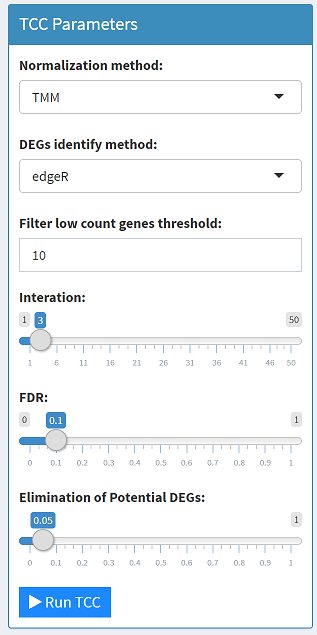
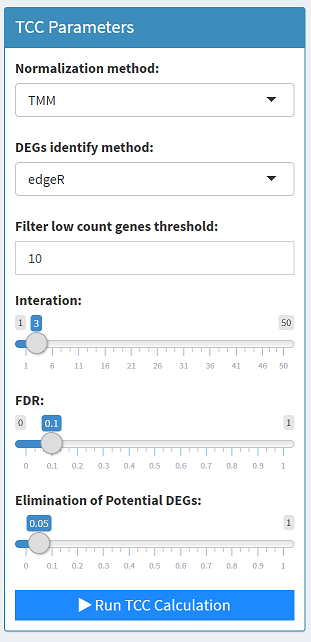
Update docs.

Changed region(s): [[0.0, 0.0, 1.0, 1.0]]

diff --git a/TCC-GUI/document/English_Welcome.md b/TCC-GUI/document/English_Welcome.md
@@ -26,17 +26,21 @@ Please check other tab in `Guidance` for details.
 
 # 📧Contact
 
-If you have any question about the application, comment and advise, please contact [kadota(at)bi.a.u-tokyo.ac.jp](mailto:kadota@bi.a.u-tokyo.ac.jp) or [suwei(at)bi.a.u-tokyo.ac.jp](mailto:suwei@bi.a.u-tokyo.ac.jp). 
+---
 
-Also, you can access [Github](https://github.com/swsoyee/TCC-GUI/issues) and open a new issue for bug report or function requirement (you can write in English, Chinese or Japanese as you like).  
+If you have any question about the application, comment and advise, please contact 📧[kadota(at)bi.a.u-tokyo.ac.jp](mailto:kadota@bi.a.u-tokyo.ac.jp) or 📧[suwei(at)bi.a.u-tokyo.ac.jp](mailto:suwei@bi.a.u-tokyo.ac.jp). 
+
+Also, you can access 🔗[Github](https://github.com/swsoyee/TCC-GUI/issues) and open a new issue for bug report or function requirement (you can write in English, Chinese or Japanese as you like).  
 
 
 
 # 📚References
 
-[1] Sun J, Nishiyama T, Shimizu K, et al. **TCC**: an R package for comparing tag count data with robust normalization strategies[J]. BMC bioinformatics, 2013, 14(1): 219.  
-[2] Robinson M D, McCarthy D J, Smyth G K. **edgeR**: a Bioconductor package for differential expression analysis of digital gene expression data[J]. Bioinformatics, 2010, 26(1): 139-140.  
-[3] Anders S, Huber W. Differential expression analysis for sequence count data[J]. Genome biology, 2010, 11(10): R106.   
-[4] Love M I, Huber W, Anders S. Moderated estimation of fold change and dispersion for RNA-seq data with **DESeq2**[J]. Genome biology, 2014, 15(12): 550.  
-[5] Hardcastle T J, Kelly K A. **baySeq** : empirical Bayesian methods for identifying differential expression in sequence count data[J]. BMC bioinformatics, 2010, 11(1): 422.  
+---
+
+[1] Sun J, Nishiyama T, Shimizu K, et al. **TCC**: an R package for comparing tag count data with robust normalization strategies. BMC bioinformatics, 2013, 14(1): 219.  
+[2] Robinson M D, McCarthy D J, Smyth G K. **edgeR**: a Bioconductor package for differential expression analysis of digital gene expression data. Bioinformatics, 2010, 26(1): 139-140.  
+[3] Anders S, Huber W. Differential expression analysis for sequence count data. Genome biology, 2010, 11(10): R106.   
+[4] Love M I, Huber W, Anders S. Moderated estimation of fold change and dispersion for RNA-seq data with **DESeq2**. Genome biology, 2014, 15(12): 550.  
+[5] Hardcastle T J, Kelly K A. **baySeq** : empirical Bayesian methods for identifying differential expression in sequence count data. BMC bioinformatics, 2010, 11(1): 422.  
 

diff --git a/TCC-GUI/document/English_MA_plot.md b/TCC-GUI/document/English_MA_plot.md
@@ -1,14 +1,19 @@
-# What's MA Plot?
-An MA plot is an application of a Bland–Altman plot for visual representation of genomic data. The plot visualizes the differences between measurements taken in two samples, by transforming the data onto M (log ratio) and A (mean average) scales, then plotting these values. Though originally applied in the context of two channel DNA microarray gene expression data, MA plots are also used to visualise high-throughput sequencing analysis (quote from [wikipedia](https://en.wikipedia.org/wiki/MA_plot)).
+# 🤔What's MA plot?
 
 ---
 
-1. Change parameters or just leave it as default, click **[Generate MA-Plot]** button, and the MA plot will show up in the middle of the page.  
+An MA plot is an application of a Bland–Altman plot for visual representation of genomic data. The plot visualizes the differences between measurements taken in two samples, by transforming the data onto `M (log ratio)` and `A (mean average)` scales, then plotting these values. Though originally applied in the context of two channel DNA microarray gene expression data, MA plots are also used to visualize high-throughput sequencing analysis (quote from 🔗[wikipedia](https://en.wikipedia.org/wiki/MA_plot)).
+
+---
+
+# Steps for plotting
+---
+1. Change parameters or just leave it as default, click `[Generate MA-Plot]` button, and the MA plot will show up in the middle of the page.  
   ![MA plot parameters](../www/maPlotPara.png)
 2. If you want to check the infomation of specific point (transcript or gene), hover your cursor on the point, and the additional information will be print out (on the right side of the page, a expression level plot will also be provided).  
   ![MA Plot](../www/maplot1.png)
-3. If you want to mark some genes on the plot, please click the specific rows of the gene in  **Result Table** panel, and click **[Generate MA-Plot]** button again to refresh the plot.   
+3. If you want to mark some genes on the plot, please click the specific rows of the gene in  `Result Table` panel, and click `[Generate MA-Plot]` button again to refresh the plot.   
   ![MA Plot](../www/maplot2.png)
-4. On the left of the page, you will see lots of different FDR cut off and the count of DEGs in  **FDR vs DEGs** panel.  
+4. On the left of the page, you will see lots of different FDR cut off and the count of DEGs in  `FDR vs DEGs` panel.  
   ![FDR vs DEGs](../www/fdrDegs.png)  
-5. On the right of the page, R code of MA Plot is also provided.   
+5. On the right of the page, R code of MA plot is also provided.   

diff --git a/TCC-GUI/document/English_Computation.md b/TCC-GUI/document/English_Computation.md
@@ -1,9 +1,12 @@
-1. Click **[Calculation]** tab in the sider bar on the left of this page.   
+# Steps for calculation
+---
+
+1. Click `[Calculation]` tab in the side bar on the left of this page.   
   ![calculation tab](../www/calculationTab.png)  
-2. You can change all the parameters of TCC calculation or just leave it as default. Click **[Run]** button and wait for calculation finished. Depends on your size of dataset, method you have chosen and the interation number, it will take several seconds to 2 minutes for calculation.  
+2. You can change all the parameters of TCC calculation or just leave it as default. Click `[Run TCC Calculation]` button and wait for calculation finished. Depends on your size of dataset, method you have chosen and the iteration number, it will take several seconds to 2 minutes for calculation (`WAD` < `voom` < Others ).  
   ![TCC parameter](../www/TCC.png)  
-3. After calculation, **[Result Table]** will show on the right of the page. **[Sample Distribution]** of before normalization and after will be drawn simultaneously.  
+3. After calculation, `[Result Table]` will show on the right of the page. `[Sample Distribution]` of before normalization and after will be drawn simultaneously.  
   ![boxplot normalization](../www/boxplotNor.png)  
   ![densityplot normalization](../www/densityplotNor.png)  
-  Besides, you can copy and save the **R code of TCC calculation** (under TCC parameters panel) in the purpose of code studying or reproducing the same results on a local machine.   
-4. Next, **Step3** & **Step4** tab will show up in the slider bar. you can choose any of them for the next step of your analysis.    
+  Besides, you can copy and save the **R code of TCC calculation** (under `[TCC Parameters]` panel) in the purpose of code studying or reproducing the same results on a local machine.   
+4. Next, **Step3** & **Step4** tabs will show up in the side bar. **Step3** is for data exploration, visualization and analysis while **Step4** is for outputs. you can choose any of them for the next step of your analysis.    

diff --git a/TCC-GUI/document/English_Volcano_plot.md b/TCC-GUI/document/English_Volcano_plot.md
@@ -1,8 +1,10 @@
-# What's Volcano Plot?
-In statistics, a volcano plot is a type of scatter-plot that is used to quickly identify changes in large data sets composed of replicate data. It plots significance versus fold-change on the y and x axes, respectively. These plots are increasingly common in omic experiments such as genomics, proteomics, and metabolomics where one often has a list of many thousands of replicate data points between two conditions and one wishes to quickly identify the most meaningful changes (quote from [wikipedia](https://en.wikipedia.org/wiki/Volcano_plot_(statistics))).  
-
+# 🤔What's Volcano Plot?
 ---
-Almost the same as **[MA Plot]**. Please check the document of MA Plot.  
+In statistics, a volcano plot is a type of scatter-plot that is used to quickly identify changes in large data sets composed of replicate data. It plots `significance` versus `fold-change` on the `y` and `x` axes, respectively. These plots are increasingly common in omic experiments such as genomics, proteomics, and metabolomics where one often has a list of many thousands of replicate data points between two conditions and one wishes to quickly identify the most meaningful changes (quote from 🔗[wikipedia](https://en.wikipedia.org/wiki/Volcano_plot_(statistics))).  
+
+# Steps for plotting
+---
+Almost the same as `[MA Plot]`. Please check the document of MA Plot.  
 
 ![volcanoplot parameters](../www/volcanoPlotPara.png)  
 ![volcanoPlot](../www/volcanoplot.png)  

diff --git a/TCC-GUI/document/English_Data_input.md b/TCC-GUI/document/English_Data_input.md
@@ -1,3 +1,5 @@
+# Steps for data import
+---
 1. First, click **`Data Import (Step 1)`** tab in the side bar on the left of this page.  
   ![data import tab](../www/dataImportTab.png)  
 2. At the left of the top, you can `[Import Data]` just for a test, or click `[Upload]` data tab for uploading your own `tab-delimited text file` like [hypodata.txt](http://www.iu.a.u-tokyo.ac.jp/~kadota/R_seq/data_hypodata_3vs3.txt). Please make sure it's a original `count data` file. If you are going to upload large dataset (such as file in 50,000 rows when using online version TCC-GUI), please wait until the file has been uploaded completely. In this case, offline version is highly recommended.   
